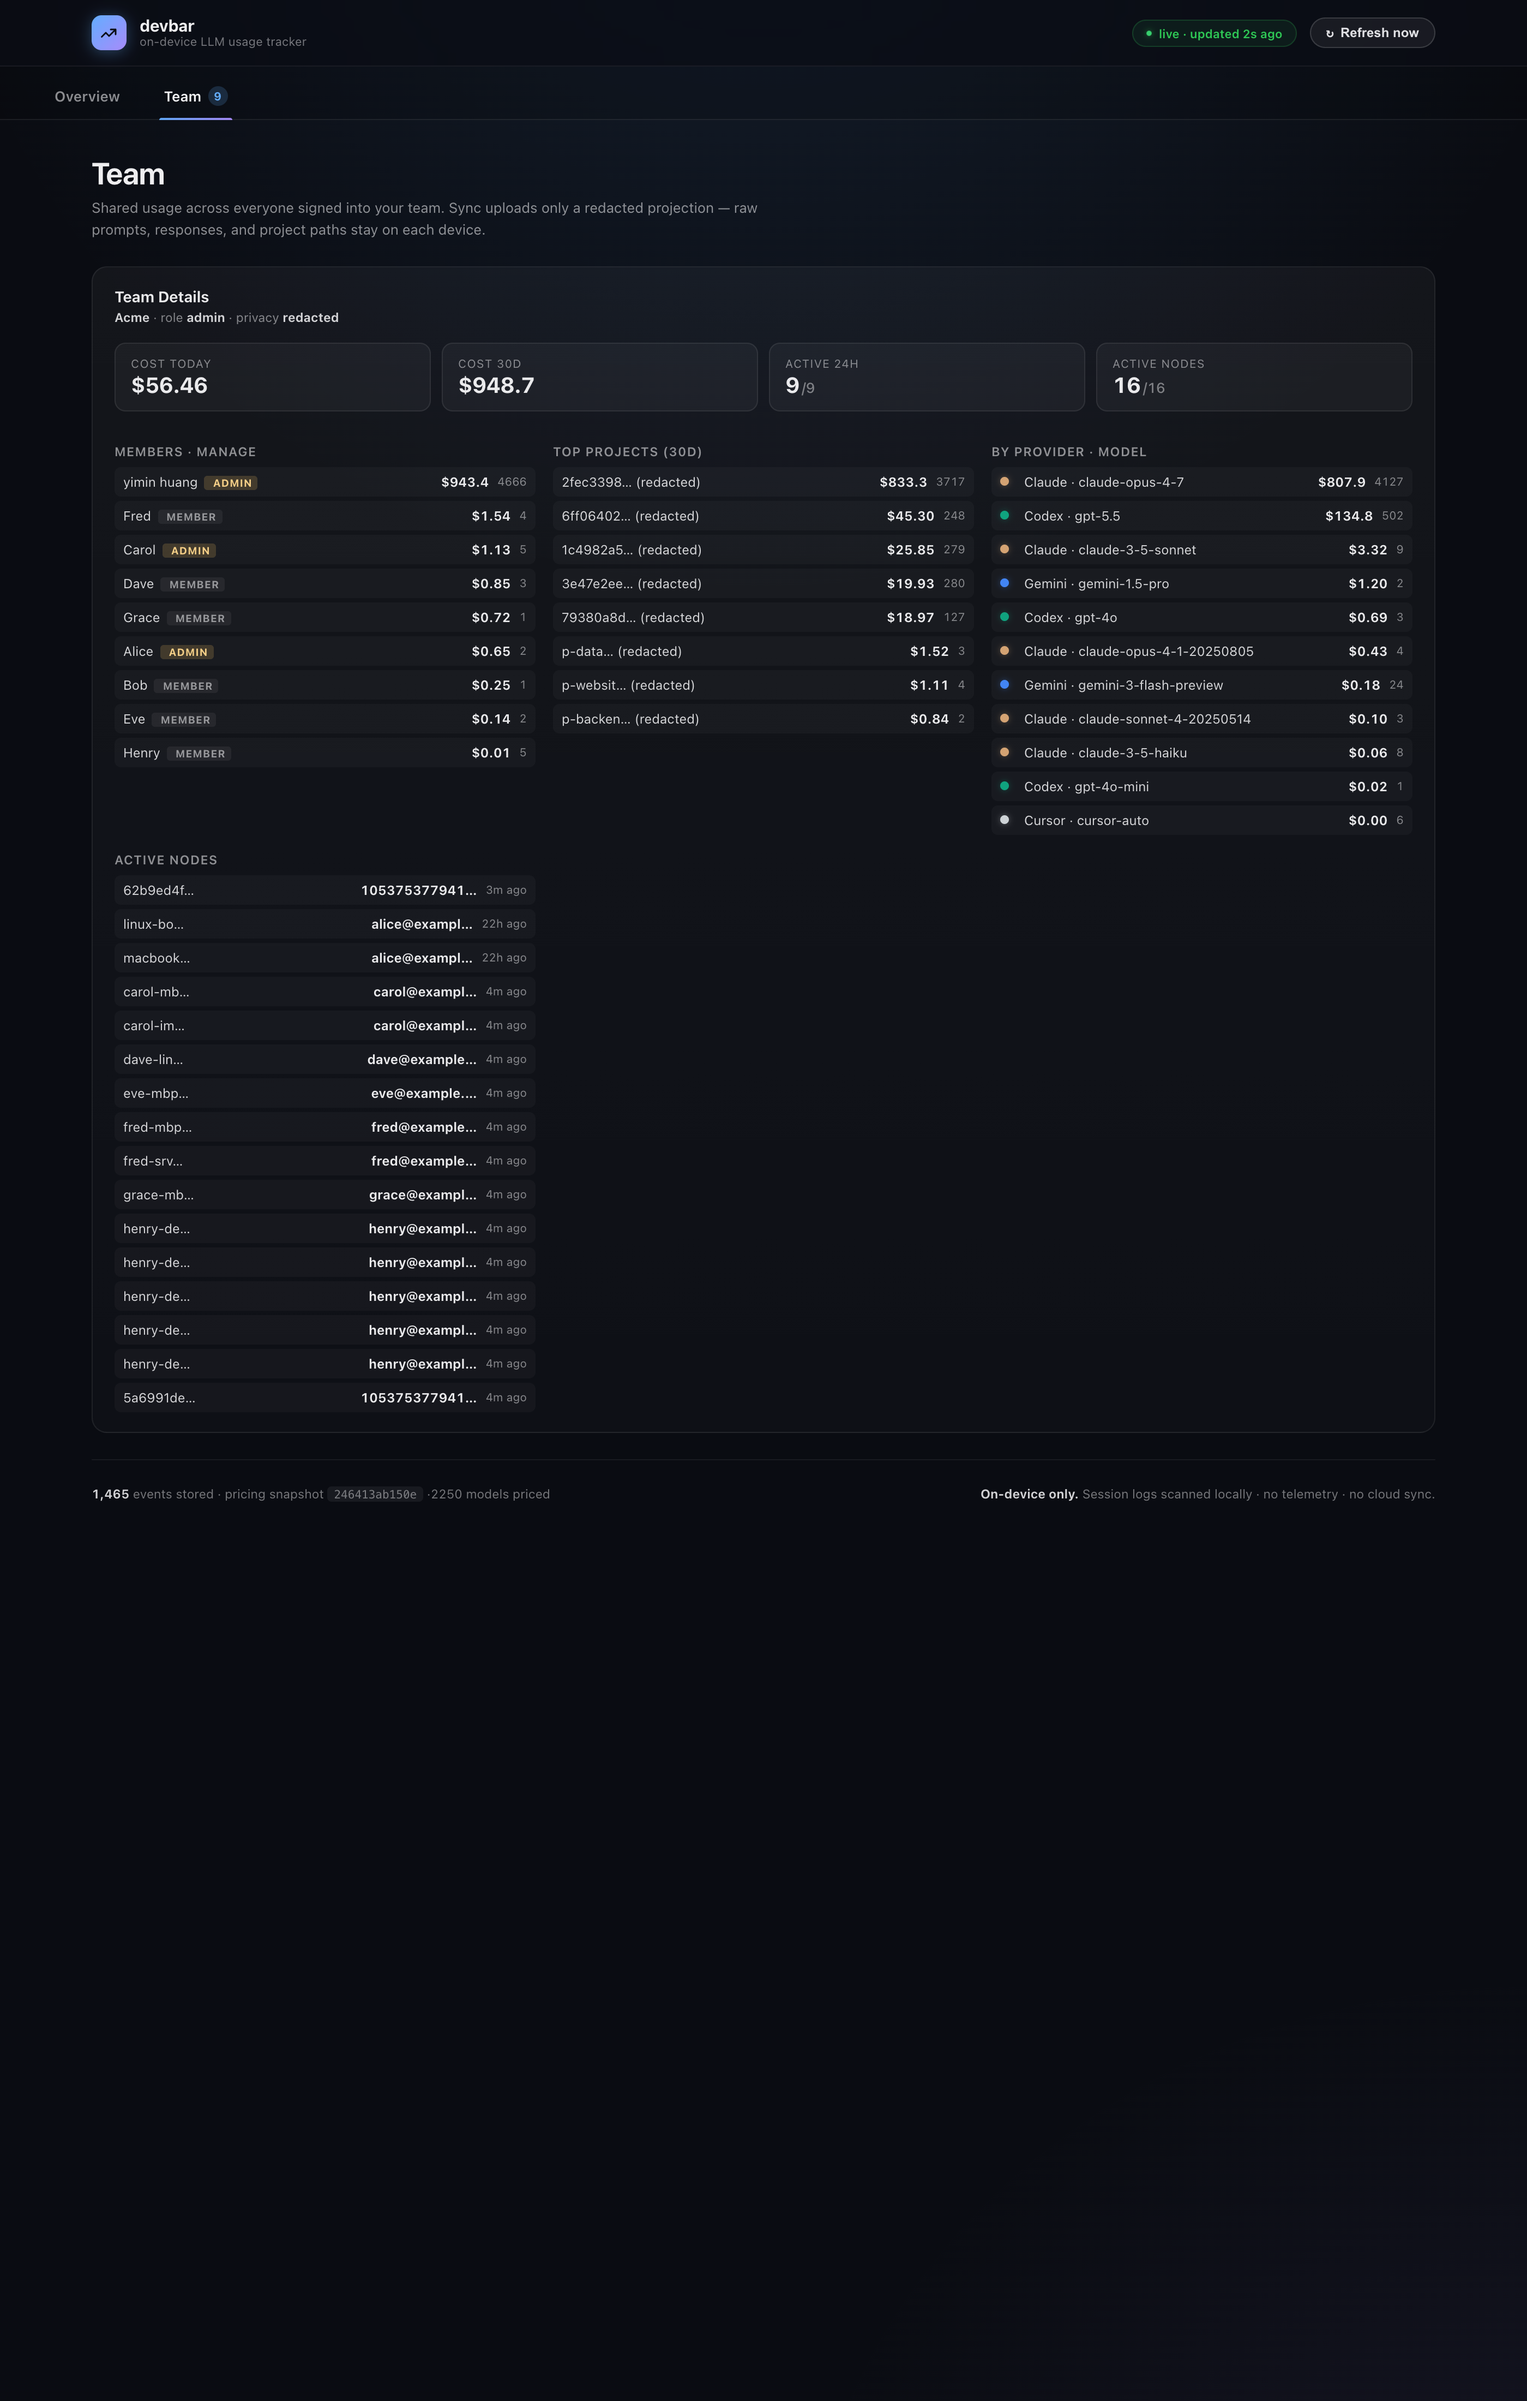
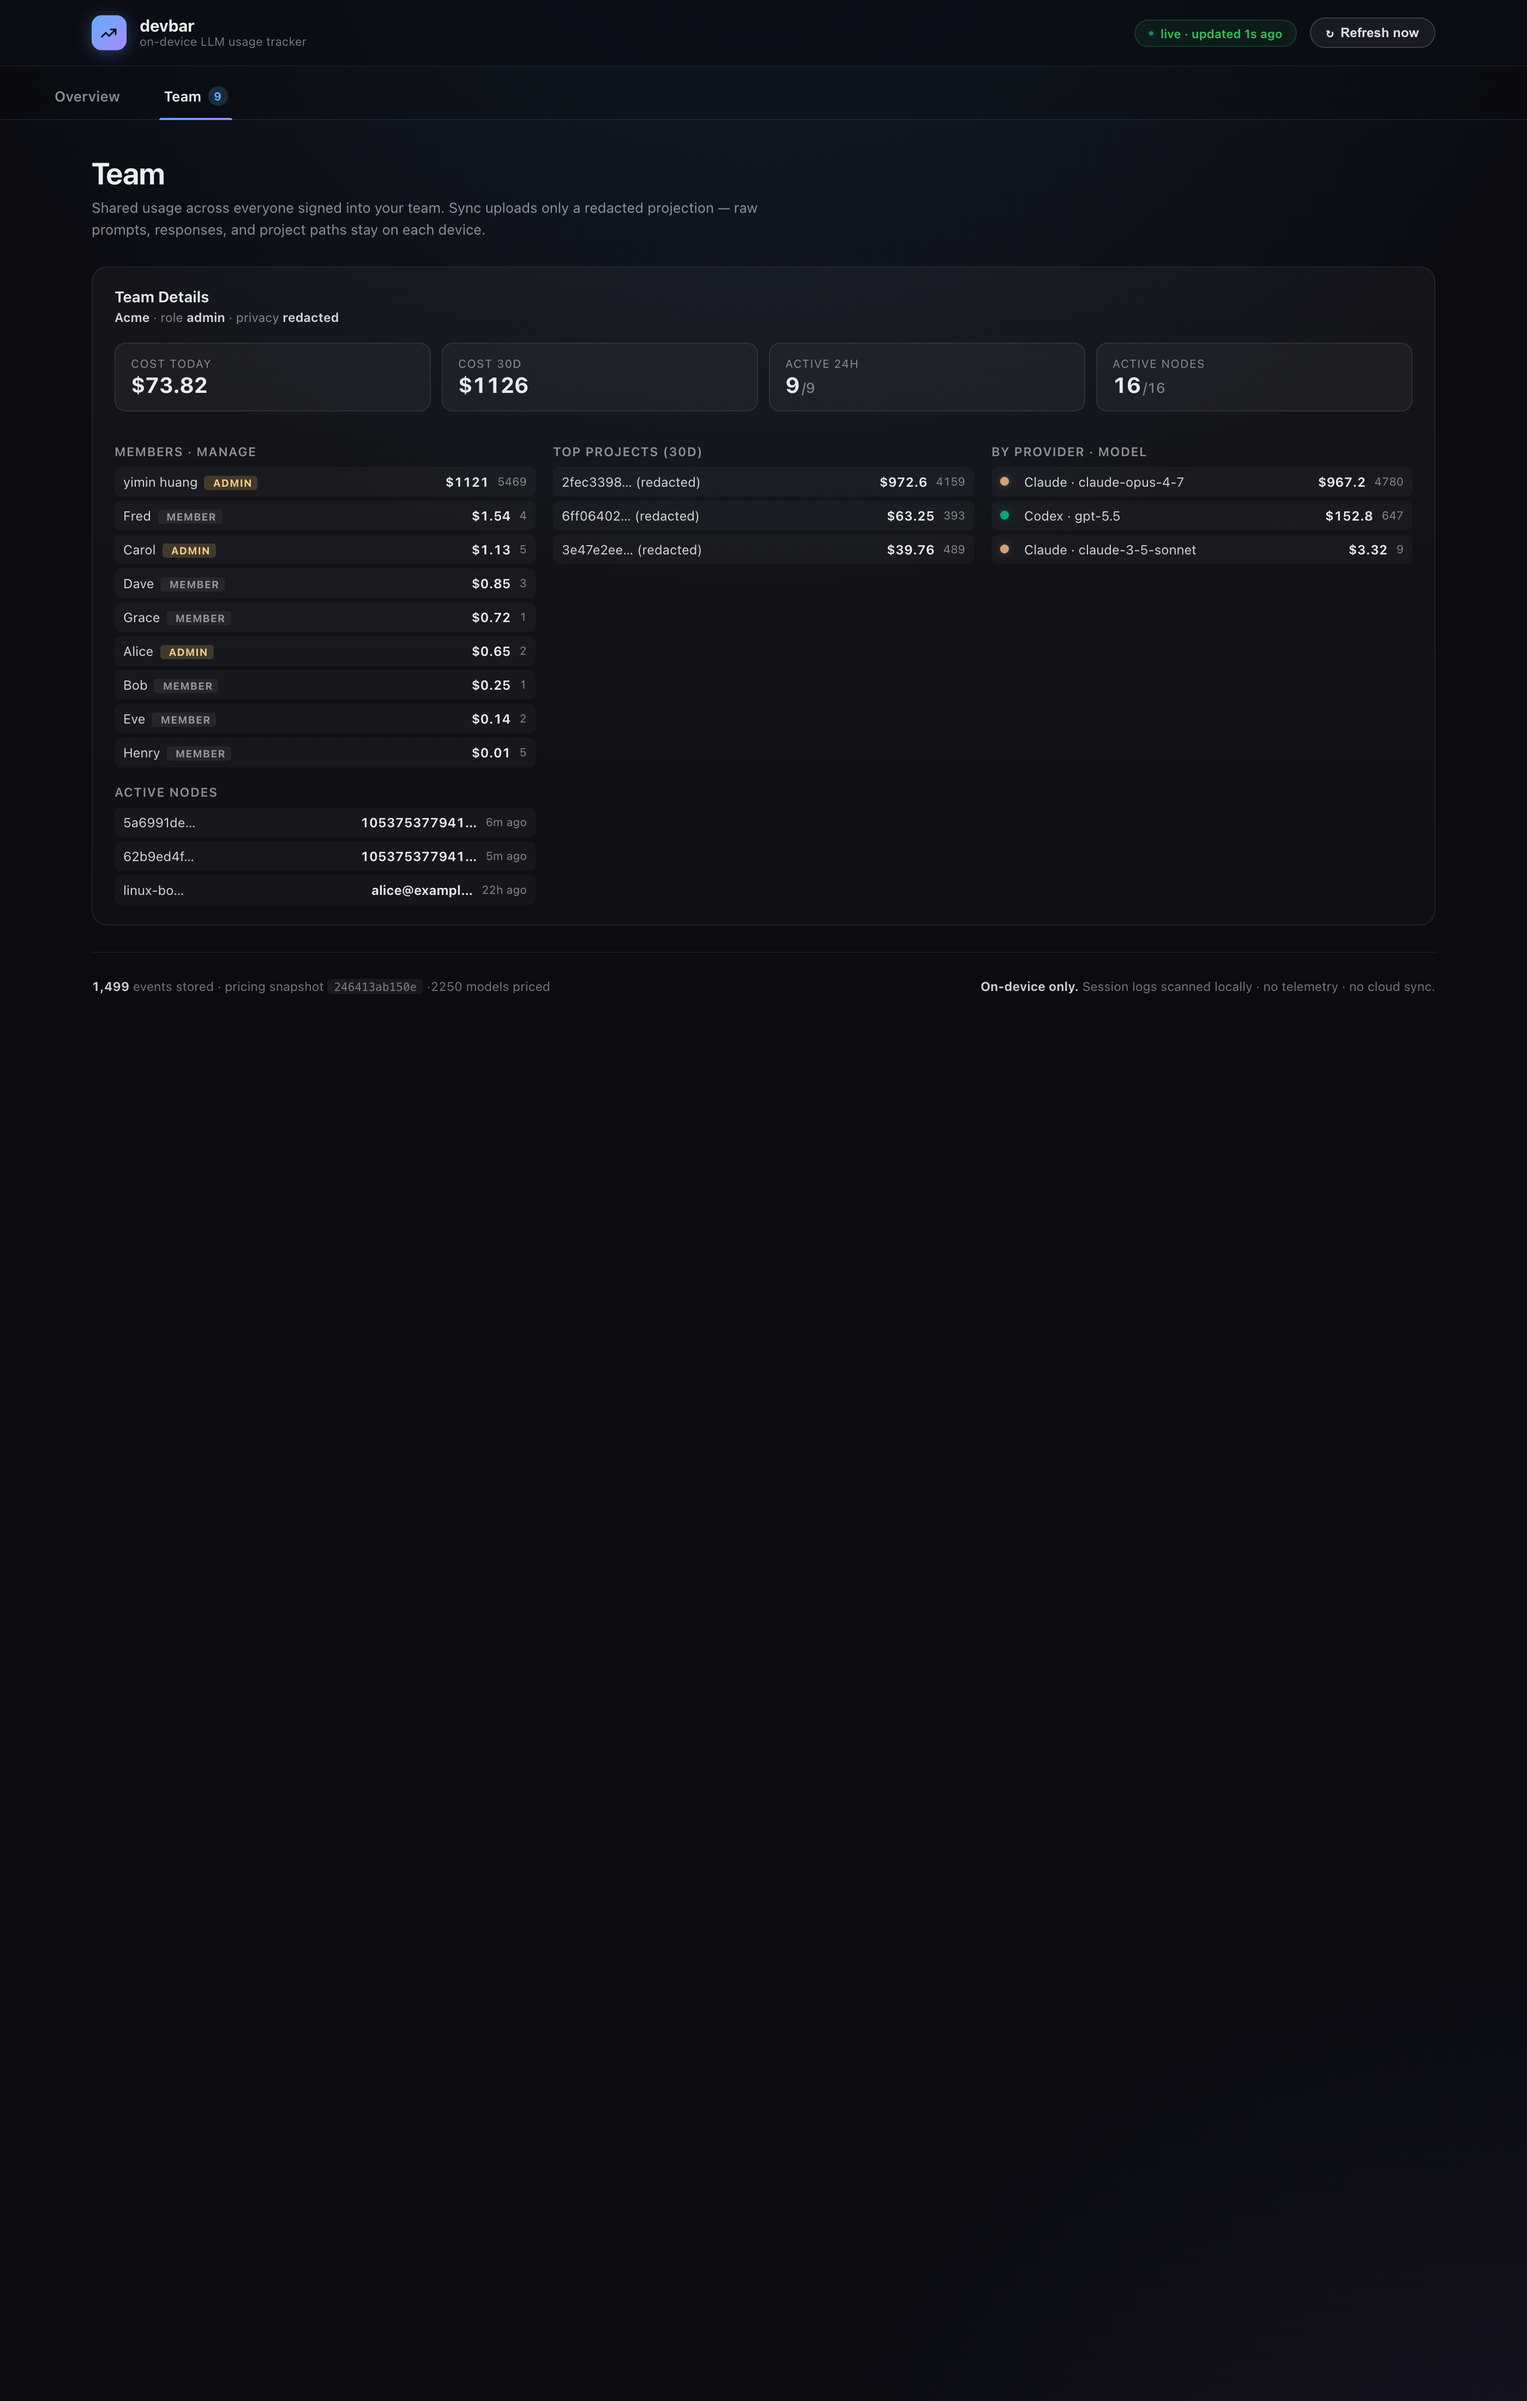
ui(team): cap top projects / by-provider / active nodes at 3 in tray
The tray dropdown is a glance surface — long-tail breakdowns dilute the
headline data (the members table). Cap each of the three rollup
breakdowns at top 3 to match the Overview tab's treatment:

  • Top projects (30d)
  • By provider · model
  • Active nodes

Applied symmetrically to both the tray-side TeamTab.tsx and the
browser-served WebDashboard.tsx so the two surfaces agree.

Members list stays uncapped — it's the headline data on this tab, not
a long tail. Future audit drilldown will surface the full ranked lists
without crowding the at-a-glance view.

Refreshes docs/screenshots/team-dashboard-mbp.png.

diff --git a/src/renderer/src/tabs/TeamTab.tsx b/src/renderer/src/tabs/TeamTab.tsx
@@ -353,6 +353,9 @@ export function TeamTab({ settings, dashboardUrl }: {
         </ul>
       </section>
 
+      {/* Tray surface = glance. Cap each long-tail breakdown to top 3 so
+          the dropdown stays scannable; the audit drilldown lives on the
+          browser dashboard (Cmd-click the globe icon in the footer). */}
       <section className="settings-card">
         <div className="settings-card-head">
           <h3>Top projects (30d)</h3>
@@ -361,7 +364,7 @@ export function TeamTab({ settings, dashboardUrl }: {
           <p className="empty">no project activity</p>
         ) : (
           <ul className="rows">
-            {overview.topProjects.map((p) => (
+            {overview.topProjects.slice(0, 3).map((p) => (
               <li key={p.projectKey}>
                 <span className="row-label" title={p.redacted ? 'project name redacted' : p.projectKey}>
                   {p.redacted ? `${p.projectKey.slice(0, 8)}… (redacted)` : p.projectKey}
@@ -379,7 +382,7 @@ export function TeamTab({ settings, dashboardUrl }: {
           <h3>By provider · model</h3>
         </div>
         <ul className="rows">
-          {overview.byProvider.map((p) => (
+          {overview.byProvider.slice(0, 3).map((p) => (
             <li key={`${p.provider}|${p.model}`}>
               <span
                 className="row-chip"
@@ -400,7 +403,7 @@ export function TeamTab({ settings, dashboardUrl }: {
           <h3>Active nodes</h3>
         </div>
         <ul className="rows">
-          {overview.nodes.map((n) => (
+          {overview.nodes.slice(0, 3).map((n) => (
             <li key={n.nodeId}>
               <span className="row-label" title={n.nodeId}>
                 {n.displayName ?? `${n.nodeId.slice(0, 8)}…`}

diff --git a/src/renderer/src/WebDashboard.tsx b/src/renderer/src/WebDashboard.tsx
@@ -741,7 +741,9 @@ export function WebDashboard(): JSX.Element {
                   <p className="web-empty">no project activity</p>
                 ) : (
                   <ul className="web-team-rows">
-                    {teamOverview.topProjects.map((p) => (
+                    {/* Glance surface — cap each breakdown to top 3; full ranked
+                        lists live behind the audit drilldown (TODO: link). */}
+                    {teamOverview.topProjects.slice(0, 3).map((p) => (
                       <li key={p.projectKey}>
                         <span
                           className="web-team-label"
@@ -764,7 +766,7 @@ export function WebDashboard(): JSX.Element {
               <div className="web-team-block">
                 <h3>By provider · model</h3>
                 <ul className="web-team-rows">
-                  {teamOverview.byProvider.map((p) => (
+                  {teamOverview.byProvider.slice(0, 3).map((p) => (
                     <li key={`${p.provider}|${p.model}`}>
                       <span
                         className="web-team-chip"
@@ -788,7 +790,7 @@ export function WebDashboard(): JSX.Element {
               <div className="web-team-block">
                 <h3>Active nodes</h3>
                 <ul className="web-team-rows">
-                  {teamOverview.nodes.map((n) => (
+                  {teamOverview.nodes.slice(0, 3).map((n) => (
                     <li key={n.nodeId}>
                       <span className="web-team-label" title={n.nodeId}>
                         {n.displayName ?? `${n.nodeId.slice(0, 8)}…`}
